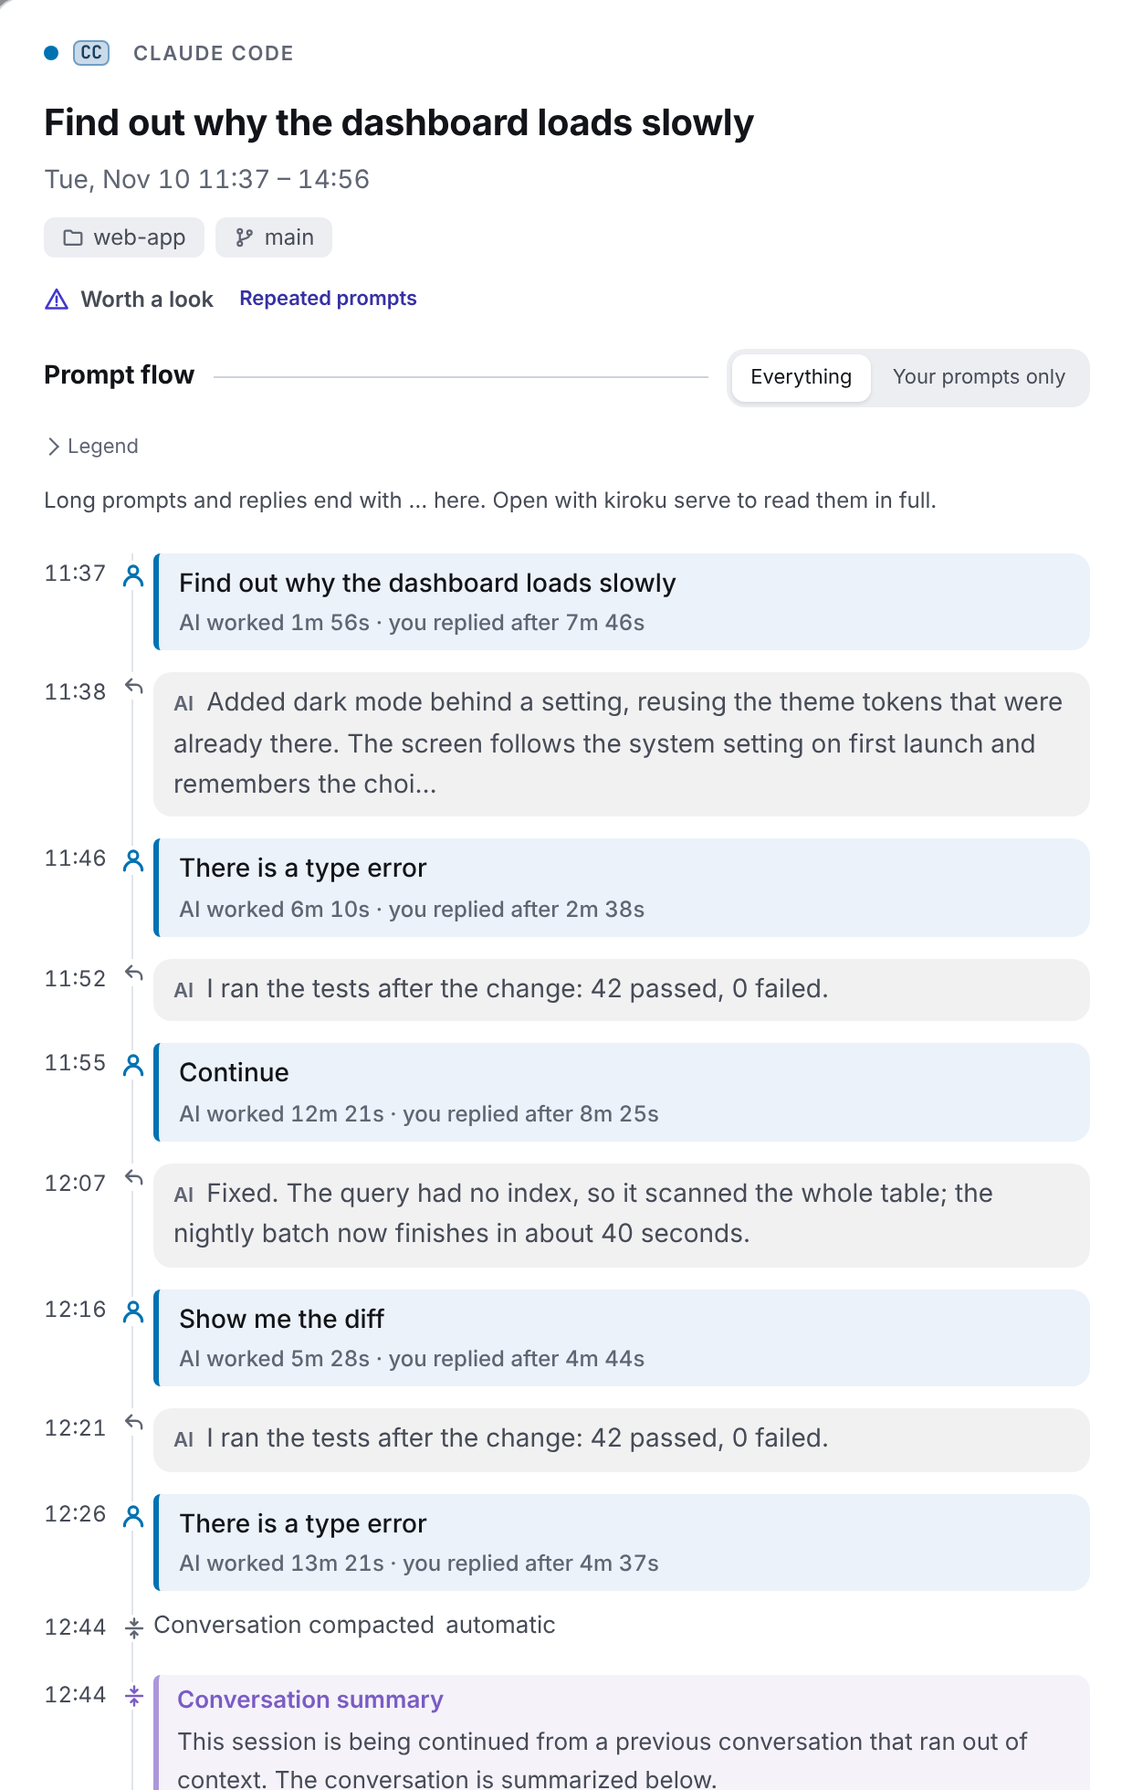
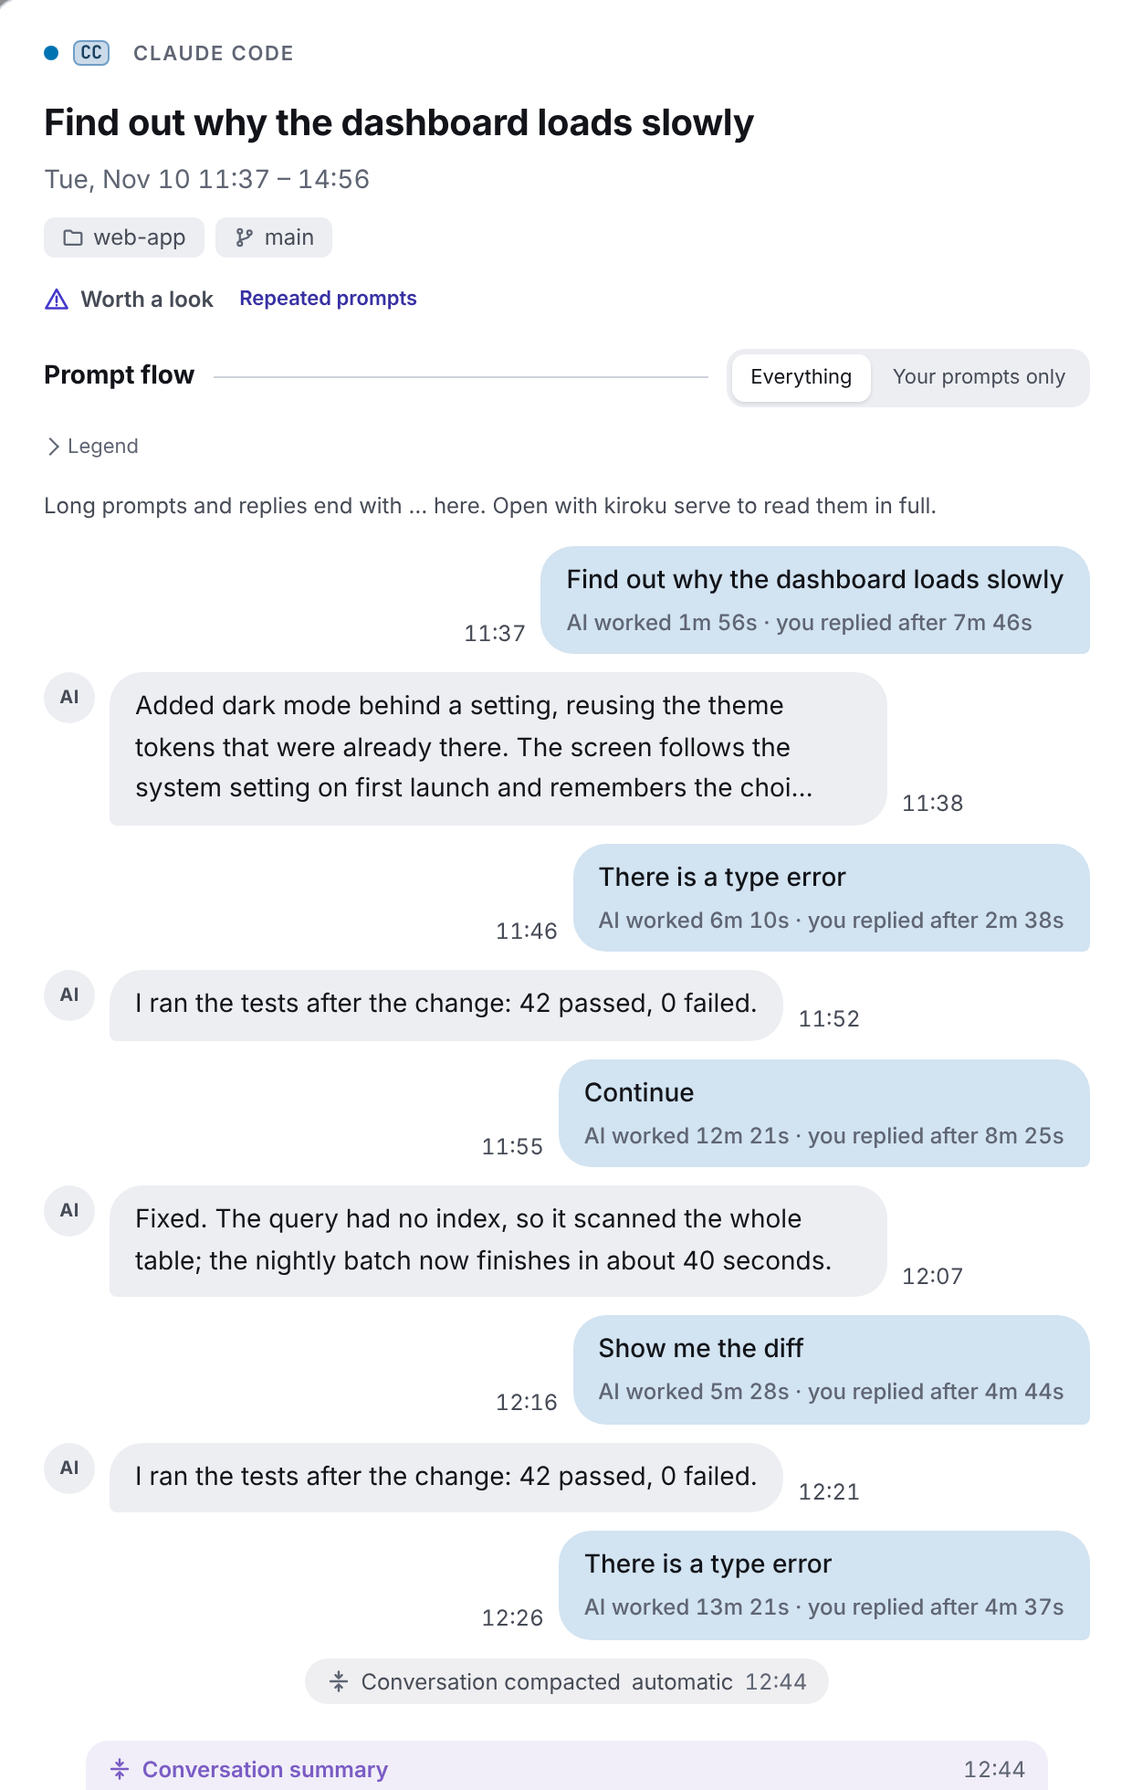
View: prompt flow as a chat, and fixes from the UX check
Your prompts are bubbles on the right, the AI's replies bubbles on the left
next to an AI mark, events small centered labels, a long break a divider.
Prompt rules are scoped with :not(.ev) because the pull-request event also
has the class pr. The actions section is left out when it would be empty,
so the right column starts level with the flow; Session review uses the
same heading spacing as the others; the Legend summary is 24px tall.

diff --git a/internal/web/style.css b/internal/web/style.css
@@ -437,26 +437,13 @@ h3::after{content:"";flex:1;height:1px;background:var(--rule)}
 .mini>div{padding:10px 12px;border-radius:10px;background:var(--surface-2)}
 .mini .k{font-size:var(--fs-xs);color:var(--ink-3)}
 .mini .v{font:700 var(--fs-xl)/1.3 var(--sans);font-variant-numeric:tabular-nums;letter-spacing:-.02em}.mini .v small{font-size:var(--fs-xs);font-weight:500;color:var(--ink-2);margin-left:1px}
-.tl{list-style:none;margin:0;padding:0;position:relative}
-.tl::before{content:"";position:absolute;left:44px;top:6px;bottom:6px;width:1px;background:var(--rule)}
-.tl li{display:grid;grid-template-columns:38px 1fr;gap:18px;padding:5px 0;position:relative;font-size:var(--fs-sm);line-height:1.6}
-.tl li::before{content:"";position:absolute;left:41px;top:12px;width:7px;height:7px;border-radius:50%;background:var(--surface);box-shadow:inset 0 0 0 1.5px var(--c)}
-.tl li.fix::before{background:var(--warn);box-shadow:none}
-.tl li.ev{font-size:var(--fs-sm);color:var(--ink-2);padding:2px 0}
-.tl li.ev::before{display:none}
-.tl li.ev>.ic{position:absolute;left:38px;top:5px;width:13px;height:13px;padding:1px;box-sizing:content-box;background:var(--surface);color:var(--ink-3)} /* 出来事は点の代わりに種類の印（線の上に重ねる） */
-.drawer .tl li.ev>.ic{left:42px;top:7px}
-.tl li.ev::before{top:10px;width:6px;height:6px;left:41.5px}
 .tl li.ev.ai>.ic,.tl li.ev.pr>.ic,.tlkey .kev.commit .ic,.tlkey .kev.pr .ic{color:var(--acc)}
 .tl li.ev.int>.ic,.tl li.ev.warn>.ic,.tlkey .kev.int .ic,.tlkey .kev.warn .ic{color:var(--warn)}
 .tl li.ev.int .evl,.tl li.ev.warn .evl{color:var(--warn);font-weight:600}
 .tl li.pr:focus{outline:none}.tl li.pr:focus-visible{outline:2px solid var(--acc);outline-offset:2px;border-radius:6px}
-.tl li.ev p{display:flex;gap:6px;min-width:0;white-space:nowrap}
 .tl li.ev .evl{flex:none}
 .tl li.ev .evd{min-width:0;overflow:hidden;text-overflow:ellipsis;color:inherit;text-align:left;font:inherit}
 .tl li.ev button.evd:hover{color:var(--ink)}
-.tl li.gap{display:block;padding:6px 0 6px 56px;font-size:var(--fs-xs);color:var(--ink-3)}
-.tl li.gap::before{left:39px;top:50%;width:11px;height:1px;border-radius:0;background:var(--ink-3);box-shadow:none}
 .tl .pmeta{display:block;font-size:var(--fs-xs);color:var(--ink-3);font-variant-numeric:tabular-nums}
 .tl .pcut{color:var(--ink-3);white-space:normal;font-size:var(--fs-xs)}
 .tlkey{display:flex;flex-wrap:wrap;gap:4px 14px;margin:0 0 8px;font-size:var(--fs-xs);color:var(--ink-3)}
@@ -465,14 +452,36 @@ h3::after{content:"";flex:1;height:1px;background:var(--rule)}
 .pload,.rload{font-size:var(--fs-xs);color:var(--acc-ink);font-weight:600;padding:1px 8px;border:1px solid var(--acc);border-radius:99px;margin-left:2px}.pload:hover,.rload:hover{text-decoration:underline}
 .tl time{color:var(--ink-3);font-variant-numeric:tabular-nums;font-size:var(--fs-xs);padding-top:1px}
 .tl p{margin:0;overflow-wrap:anywhere}
-.more{font-size:var(--fs-sm);color:var(--ink-3);margin:6px 0 0 56px}
+/* プロンプトの流れは、チャットの形で読む：あなたのプロンプトは右の吹き出し、AI の応答は左の吹き出し（AI の印つき）、
+   そのあいだに起きたこと（コミット・PR・中断など）と、長くあいた間は、真ん中の小さな札。時刻は吹き出しの外の下の端に */
+.tl{list-style:none;margin:0;padding:0;display:flex;flex-direction:column;gap:10px}
+.tl li{display:flex;align-items:flex-end;gap:8px;min-width:0;font-size:var(--fs-sm);line-height:1.6}
+.tl li>time{flex:none;padding-bottom:2px;font-size:var(--fs-xs)}
+/* 出来事の PR（li.ev.pr）は、プロンプト（li.pr）と同じ名前を持つので、:not(.ev) で分ける */
+.tl li.pr:not(.ev){justify-content:flex-end;padding-left:12%}
+.tl li.pr:not(.ev)>.ic{display:none} /* 右にあることで、あなたの発言とわかる（読み上げは「You:」） */
+.tl li.pr:not(.ev) p{min-width:0;background:color-mix(in oklab,var(--c) 20%,var(--surface));border-radius:18px 18px 4px 18px;padding:8px 14px;color:var(--ink);font-weight:500}
+.tl li.pr:not(.ev).fix p{outline:1.5px dashed var(--warn);outline-offset:-1.5px} /* 言い直しらしいものは、色に加えて破線と「Correction?」の札で（色だけに頼らない） */
+.tl li.pr:not(.ev) .pmeta{margin-top:2px}
+.tl li.rp{padding-right:12%}
+.rpav{order:0;flex:none;align-self:flex-start;display:inline-grid;place-items:center;width:28px;height:28px;border-radius:50%;background:var(--surface-2);color:var(--ink-2);font:700 10px/1 var(--sans);letter-spacing:.02em} /* AI の印（アイコンの丸） */
+.tlkey .rpav{width:18px;height:18px;font-size:8px}
+.tl li.rp p{order:1;min-width:0;background:var(--surface-2);border-radius:18px 18px 18px 4px;padding:8px 14px;color:var(--ink)}
+.tl li.rp>time{order:2}
+.tl li.ev{align-self:center;max-width:92%;gap:6px;align-items:center;padding:3px 12px;border-radius:99px;background:color-mix(in oklab,var(--ink-3) 10%,transparent);font-size:var(--fs-xs);color:var(--ink-2)}
+.tl li.ev>.ic{order:0;flex:none;width:13px;height:13px;color:var(--ink-3)}
+.tl li.ev p{order:1;display:flex;gap:6px;min-width:0;white-space:nowrap}
+.tl li.ev>time{order:2;padding:0;color:var(--ink-3)}
+.tl li.ev.note{border-radius:12px;align-items:flex-start;padding:6px 12px;background:color-mix(in oklab,var(--c6) 10%,transparent)}
+.tl li.ev.note p{white-space:normal;align-items:flex-start;flex-wrap:wrap;gap:2px 6px}
+.tl li.ev.note>.ic{margin-top:3px}
+.tl li.gap{align-self:stretch;display:flex;align-items:center;gap:10px;font-size:var(--fs-xs);color:var(--ink-3)}
+.tl li.gap::before,.tl li.gap::after{content:"";flex:1;height:1px;background:var(--rule)} /* 日付の区切りのように、線のあいだに */
+.more{font-size:var(--fs-sm);color:var(--ink-3);margin:10px auto 0}
 .tl li[hidden]{display:none}
 /* プロンプトの種類：あなたが打ったコマンド（/ や !）と、自動で入ったもの（通知・要約・hook など）を色で分ける */
 .tl li.pr.command,.tl li.pr.shell{--c:var(--c4)}
 /* あなたのプロンプトは、点の代わりに人の印（セッションの色。言い直しらしいものは警告の色）。応答の ↩ と並べて、だれの発言かを形でも見分ける */
-.tl li.pr::before{display:none}
-.tl li.pr>.ic{position:absolute;left:37px;top:7px;width:14px;height:14px;padding:1px;box-sizing:content-box;background:var(--surface);color:var(--c);stroke-width:1.8}
-.drawer .tl li.pr>.ic{left:41px;top:10px}
 .tl li.pr.fix>.ic{color:var(--warn)}
 .tl li.pr.command>.ic,.tl li.pr.shell>.ic{color:var(--c4-ink)}
 .tlkey .kus .ic{color:var(--c);stroke-width:1.8}
@@ -485,24 +494,14 @@ h3::after{content:"";flex:1;height:1px;background:var(--rule)}
 .tl.only-user li.ev,.tl.only-user li.gap{display:none}
 /* 応答は、依頼の次の発言として同じ線の上に出す（会話として読めるように）。
    あなたが打ったものだけを見るときは出さない */
-.tl li.rp{color:var(--ink-2);padding:1px 0 5px}
-.tl li.rp::before{display:none}
-.tl li.rp>.ic{position:absolute;left:38px;top:4px;width:13px;height:13px;padding:1px;box-sizing:content-box;background:var(--surface);color:var(--ink-3)}
-.drawer .tl li.rp>.ic{left:42px;top:6px}
-.tl li.rp p{background:color-mix(in oklab,var(--ink-3) 9%,transparent);border-radius:10px;padding:6px 11px}
-.tl .rpw{color:var(--ink-3);font-size:var(--fs-xs);font-weight:600;margin-right:7px} /* だれの発言か（AI） */
 .tl .reptext{white-space:pre-wrap}
 .tl.only-user li.rp{display:none}
-.tlkey .kev.rep .ic{color:var(--ink-3)}
 .tlkey.only-user .kev{display:none} /* 出ていないものの説明は出さない（出来事も応答も隠れている） */
 /* あなたのプロンプトは、セッションの色の線と淡い地の吹き出しにして、灰色の地の応答や出来事の行と見分けやすく */
-.tl li.pr p{background:color-mix(in oklab,var(--c) 9%,var(--surface));border-left:3px solid var(--c);border-radius:4px 10px 10px 4px;padding:6px 11px;color:var(--ink);font-weight:500}
-.tl li.pr.fix p{border-left:3px dashed var(--warn)} /* 言い直しらしいものは、色に加えて破線と「Correction?」の札で（色だけに頼らない） */
 /* / のコマンドと ! のシェルは、打ったとおりに等幅のコードの枠で */
 .tl li.pr .ptext>code{display:block;margin-top:4px;padding:5px 9px;border-radius:6px;background:var(--surface-2);font:500 .92em/1.55 var(--mono);white-space:pre-wrap;overflow-wrap:anywhere}
 .tl li.pr .ptext>code .pexp,.tl li.pr .ptext>code .pcut{font-family:var(--sans)}
 /* 人が打っていないもの（システムの知らせ・通知・フックなど）は、紫の線と地にして、切らずに 3 行まで見せる */
-.tl li.ev.note p{white-space:normal;align-items:flex-start;flex-wrap:wrap;gap:2px 6px;background:color-mix(in oklab,var(--c6) 8%,transparent);border-left:3px solid color-mix(in oklab,var(--c6) 60%,transparent);border-radius:4px 8px 8px 4px;padding:4px 10px}
 .tl li.ev.note .evl{font-weight:600}
 .tl li.ev.note .evd{flex:1 1 100%;color:var(--ink-2);display:-webkit-box;-webkit-box-orient:vertical;-webkit-line-clamp:3;line-clamp:3;white-space:pre-wrap;overflow-wrap:anywhere}
 .tl li.ev.note.output .evd{font-family:var(--mono);font-size:.92em}
@@ -531,10 +530,10 @@ button.more{display:block;text-align:left}
 .files .fp a:focus-visible,.drawer .gfiles span>a:focus-visible{outline-offset:-2px} /* 行は overflow:hidden なので、枠を内側に描いて切れないように */
 .drawer .gfiles span>.ic{color:var(--ink-3);margin-right:6px;vertical-align:-2px}
 .drawer .dresume{margin-top:14px}.drawer .dresume>h3:first-child{margin-top:0}
-.drawer .drun h3{margin-top:22px}.drawer .sact>.drun:first-child h3{margin-top:0}
+.drawer .sact>.drun:first-child h3,.drawer .scols>.smet:first-child>h3:first-child{margin-top:0}
 /* プロンプトの流れの凡例は、既定で閉じる（記号は 1 度見ればわかるので、流れを上に） */
 .tlkeyd{margin:0 0 8px}
-.tlkeyd>summary{display:inline-flex;align-items:center;gap:6px;cursor:pointer;list-style:none;font-size:var(--fs-xs);color:var(--ink-3);padding:2px 0}
+.tlkeyd>summary{display:inline-flex;align-items:center;gap:6px;cursor:pointer;list-style:none;font-size:var(--fs-xs);color:var(--ink-3);min-height:24px}
 .tlkeyd>summary::-webkit-details-marker{display:none}
 .tlkeyd>summary::before{content:"";width:6px;height:6px;border:solid currentColor;border-width:0 1.5px 1.5px 0;transform:rotate(-45deg);transition:transform .15s}
 .tlkeyd[open]>summary::before{transform:rotate(45deg)}
@@ -647,16 +646,12 @@ body.open .drawer{opacity:1;visibility:visible;pointer-events:auto;transform:tra
 .drawer .mini .v~.k{margin-top:2px} /* 値の下の添え書き（圧縮や利用上限の時刻） */
 .dact{margin-top:14px}.dcol>.dact:first-child{margin-top:4px} /* 詳細パネルの、外のページを開くボタンの段 */
 .drawer .flowhead h3{margin:0} /* .drawer h3 の上下の余白を打ち消す（見出しとボタンを同じ行の高さにそろえる） */
-.drawer .tl li{font-size:var(--fs-lg);grid-template-columns:42px 1fr;padding:6px 0}
-.drawer .tl::before{left:48px}
-.drawer .tl li::before{left:45px;top:14px}
-.drawer .tl li.ev{font-size:var(--fs-md);padding:3px 0}
-.drawer .tl li.ev::before{left:45.5px;top:12px}
-.drawer .tl li.gap{padding:8px 0 8px 60px;font-size:var(--fs-sm)}
-.drawer .tl li.gap::before{left:43px;top:50%}
+.drawer .tl li{font-size:var(--fs-lg)}
+.drawer .tl li.ev{font-size:var(--fs-sm)}
+.drawer .tl li.gap{font-size:var(--fs-sm);padding:4px 0}
+.drawer .more{font-size:var(--fs-md)}
 .drawer .tl .pmeta,.drawer .tl .pcut,.drawer .tlkey{font-size:var(--fs-sm)}
 .drawer .tl time{font-size:var(--fs-sm);color:var(--ink-2)}
-.drawer .more{margin-left:60px;font-size:var(--fs-md)}
 .drawer .none{font-size:var(--fs-md)}
 .drawer .sub{padding:12px 0}
 .drawer .sub .hd{font-size:var(--fs-lg)}

diff --git a/internal/web/js/session.js b/internal/web/js/session.js
@@ -11,15 +11,15 @@ function detail(s){
   const sCost = costOf({cost: s.cost, unpriced: [s.usage, ...s.subagents.map(a=>a.usage)].reduce((t,u)=>t + (u ? u.unpriced||0 : 0), 0)});
   // Kiro のクレジット。Kiro Crew は Kiro 以外のバックエンドのトークンと、kiro-cli のクレジットの両方を持つことがある
   const credH = s.credits ? `<div><div class="k">${esc(t("Kiro credits"))}</div><div class="v">${crN(s.credits)}</div></div><div><div class="k">${esc(t("Per prompt"))}</div><div class="v">${s.nPrompts ? crN(s.credits/s.nPrompts) : "—"}<small> cr</small></div></div>` : "";
+  // 操作（再開・AI 分析）。どちらもなければ節ごと出さない（右の列が「数値」から始まり、左の列と高さがそろう）
+  const actH = `    ${s.resume ? `<div class="dresume"><h3>${esc(t("Resume"))}</h3>${codeH(s.resume, "resume")}</div>` : ""}
+    ${(b => b ? `<div class="drun"><h3>${esc(t("Session review"))}</h3>${b}</div>` : "")(s.prompts.length ? aiBtn("srun", t("Analyze with AI: session review")) : "")}`.trim();
   const P = $("#panel");
   P.innerHTML = `<div style="--c:${colorOf(keyOf(s))}">
     ${dHead(agMark(s.source) + esc(s.source), s.title, `${md(s.start)} ${hm(s.start)} – ${sameDay ? "" : md(s.end)+" "}${hm(s.end)}`, [projTag(s.project), branchTag(s.branch)])}
     ${sesFlags(s)}
     <div class="scols">
-    <section class="sact" aria-label="${esc(t("Actions"))}">
-    ${s.resume ? `<div class="dresume"><h3>${esc(t("Resume"))}</h3>${codeH(s.resume, "resume")}</div>` : ""}
-    ${(b => b ? `<div class="drun"><h3>${esc(t("Session review"))}</h3>${b}</div>` : "")(s.prompts.length ? aiBtn("srun", t("Analyze with AI: session review")) : "")}
-    </section>
+    ${actH ? `<section class="sact" aria-label="${esc(t("Actions"))}">${actH}</section>` : ""}
     <section class="smet" aria-labelledby="smet-h">
     <h3 id="smet-h">${esc(t("Metrics"))}</h3>
     <div class="mini tight">
@@ -130,7 +130,7 @@ function replyRow(r, i, hidden){
   const cut = r.len > 0;
   // 保存した HTML では、切ったことは「…」だけで示す（kiroku serve で読めることは、流れの上に 1 度だけ書く）
   const more = cut && LIVE ? `<span class="pcut"> ${esc(t("(first {n} of {total} characters)", {n: REPLY_RUNES, total: commas(r.len)}))} <button class="rload" data-i="${i}">${esc(t("Load the full reply"))}</button></span>` : "";
-  return `<li class="rp"${hidden}><time>${r.t ? hm(r.t) : ""}</time>${ico("reply")}<p><span class="rpw" aria-hidden="true">AI</span><span class="sr">${esc(t("AI:"))} </span><span class="reptext">${esc(r.text)}${cut ? "…" : ""}${more}</span></p></li>`;
+  return `<li class="rp"${hidden}><time>${r.t ? hm(r.t) : ""}</time><span class="rpav" aria-hidden="true">AI</span><p><span class="sr">${esc(t("AI:"))} </span><span class="reptext">${esc(r.text)}${cut ? "…" : ""}${more}</span></p></li>`;
 }
 function promptFlow(s){
   const ev = flowEvents(s), rows = [];
@@ -158,7 +158,7 @@ function promptFlow(s){
     cmds ? `<span class="kcmd"><span class="pkind">${ico("command")}${esc(t("Command"))}</span><span class="pkind">${ico("shell")}${esc(t("Shell"))}</span>${esc(t("What you typed starting with / or !"))}</span>` : "",
     kinds.has("note") ? `<span class="kev note">${[...new Set(s.notes.filter(x => x.t).map(x => NOTE_ICON[x.kind] || "note"))].map(k => ico(k)).join("")}${esc(t("Added automatically (notifications, summaries, hooks; not counted as prompts)"))}</span>` : "",
     fixes ? `<span class="kus fix"><span class="pkind fix">${esc(t("Correction?"))}</span>${esc(t("Looks like a correction (guessed from the wording)"))}</span>` : "",
-    s.prompts.some(p => p.reply) ? `<span class="kev rep">${ico("reply")}${esc(t("What the AI wrote back"))}</span>` : "",
+    s.prompts.some(p => p.reply) ? `<span class="kev rep"><span class="rpav" aria-hidden="true">AI</span>${esc(t("What the AI wrote back"))}</span>` : "",
     ...[["commit", "Commit"], ["push", "Push"], ["pr", "Pull request"], ["agent", "Subagent"], ["int", "Interruption"], ["cmp", "Compaction"], ["warn", "Usage limit"]].filter(([k]) => kinds.has(k)).map(([k, l]) => `<span class="kev ${k}">${ico(EV_ICON[k])}${esc(t(l))}</span>`)].filter(Boolean).join("");
   const rest = s.prompts.length - FLOW_SHOW, also = hiddenEv ? ` (and ${plural(hiddenEv, "other event")})` : "";
   const showMore = JA ? (hiddenEv ? t("Show {n} more prompts (and {m} other events)", {n: rest, m: hiddenEv}) : t("Show {n} more prompts", {n: rest})) : `Show ${plural(rest, "more prompt")}${also}`;

diff --git a/docs/guide.md b/docs/guide.md
@@ -87,8 +87,8 @@ The old forms `kiroku --serve`, `--json`, `-o` and `--weekly` / `--monthly` have
 - "Color by" Project / Branch / Agent is the selector at the start of the legend (Agent by default). The numbers in the legend are active time, split between sessions that ran at the same time like in "① By project"; click an item to show or hide it. In the week calendar, each week picks the height of an hour (44px, or 36px when needed) that fits its working hours, from the morning start to the latest end, in the calendar
 - Click a bar to show its details. On wide screens the left column is the prompt flow with times, and the right column has, from the top, what you can do (the resume command and "Analyze with AI"), the key numbers (active time, prompts, wait time, cost and tokens) and the rest (the history file, models used, tools used, the agent's own metrics, and what was left behind: commits, pull requests, files edited by AI, each path a link: to the commit on the remote when there is one, otherwise to the file on this computer in the HTML file, and subagents). On narrow screens the same parts come in the order: what you can do, the key numbers, the prompt flow, the rest. The keyboard (`Tab`) goes through them in that order on any width
   - When the session is behind a metric flagged in "Worth a look" for the period shown, those metrics are listed under the title; press one to open the same dialog
-  - The prompt flow puts your prompts and what happened between them (commits, pull requests created, usage limit hits with the reset time the message gave, interruptions and subagents starting) in one line, in time order. Opening a commit from the flow and pressing back returns to where you were reading
-  - Each prompt shows how long the AI worked (from the prompt to the AI's last activity before the next prompt) and how long until you replied ("you replied after", from there to the next prompt), and a break of more than 30 minutes is marked like "13:50–15:20: 1h 30m gap" (both are estimates from the history's timestamps; time while a subagent was running is not counted as a wait)
+  - The prompt flow reads like a chat, in time order: your prompts are bubbles on the right, the AI's replies are bubbles on the left next to an "AI" mark, and what happened between them (commits, pull requests created, usage limit hits with the reset time the message gave, interruptions and subagents starting) is a small label in the middle. Opening a commit from the flow and pressing back returns to where you were reading
+  - Each prompt shows how long the AI worked (from the prompt to the AI's last activity before the next prompt) and how long until you replied ("you replied after", from there to the next prompt), and a break of more than 30 minutes is a divider like "13:50–15:20: 1h 30m gap" (both are estimates from the history's timestamps; time while a subagent was running is not counted as a wait)
   - Prompts that look like corrections (guessed from the wording) get a dashed border and a "Correction?" tag, and "Legend" above the flow (closed by default) explains the marks. Slash commands you typed (such as `/review`) and `!` shell commands count as prompts and get a "Command" or "Shell" tag in their own color
   - Things that entered the conversation without you typing them (background task notifications, `<system-reminder>`, hook and command output, automatic conversation summaries, instructions sent by another agent or a schedule, the expanded text of a slash command, the steering rules and environment context older Kiro IDE versions add to your message and so on) are not counted as prompts and appear in the flow in another color, labeled with their kind
   - The AI's reply follows each prompt, with its own time, so a session reads as the conversation it was: the last thing the AI wrote back to you in that turn, in its own words, not its thinking, its tool calls or their output. The HTML keeps the first 160 characters (all of it when no more than 20 more would be cut), and when opened with `kiroku serve`, "Load the full reply" reads it to the end. A turn where the AI only ran tools, or whose words the agent does not record, has no reply line

diff --git a/changes/chat-flow.changed.md b/changes/chat-flow.changed.md
@@ -1,0 +1,1 @@
+- Session details: the prompt flow reads like a chat. Your prompts are bubbles on the right, the AI's replies are bubbles on the left next to an "AI" mark, events between them (commits, pull requests, pushes, interruptions, subagents) are small labels in the middle, and a long break is a divider. Times sit at the bottom edge of each bubble
